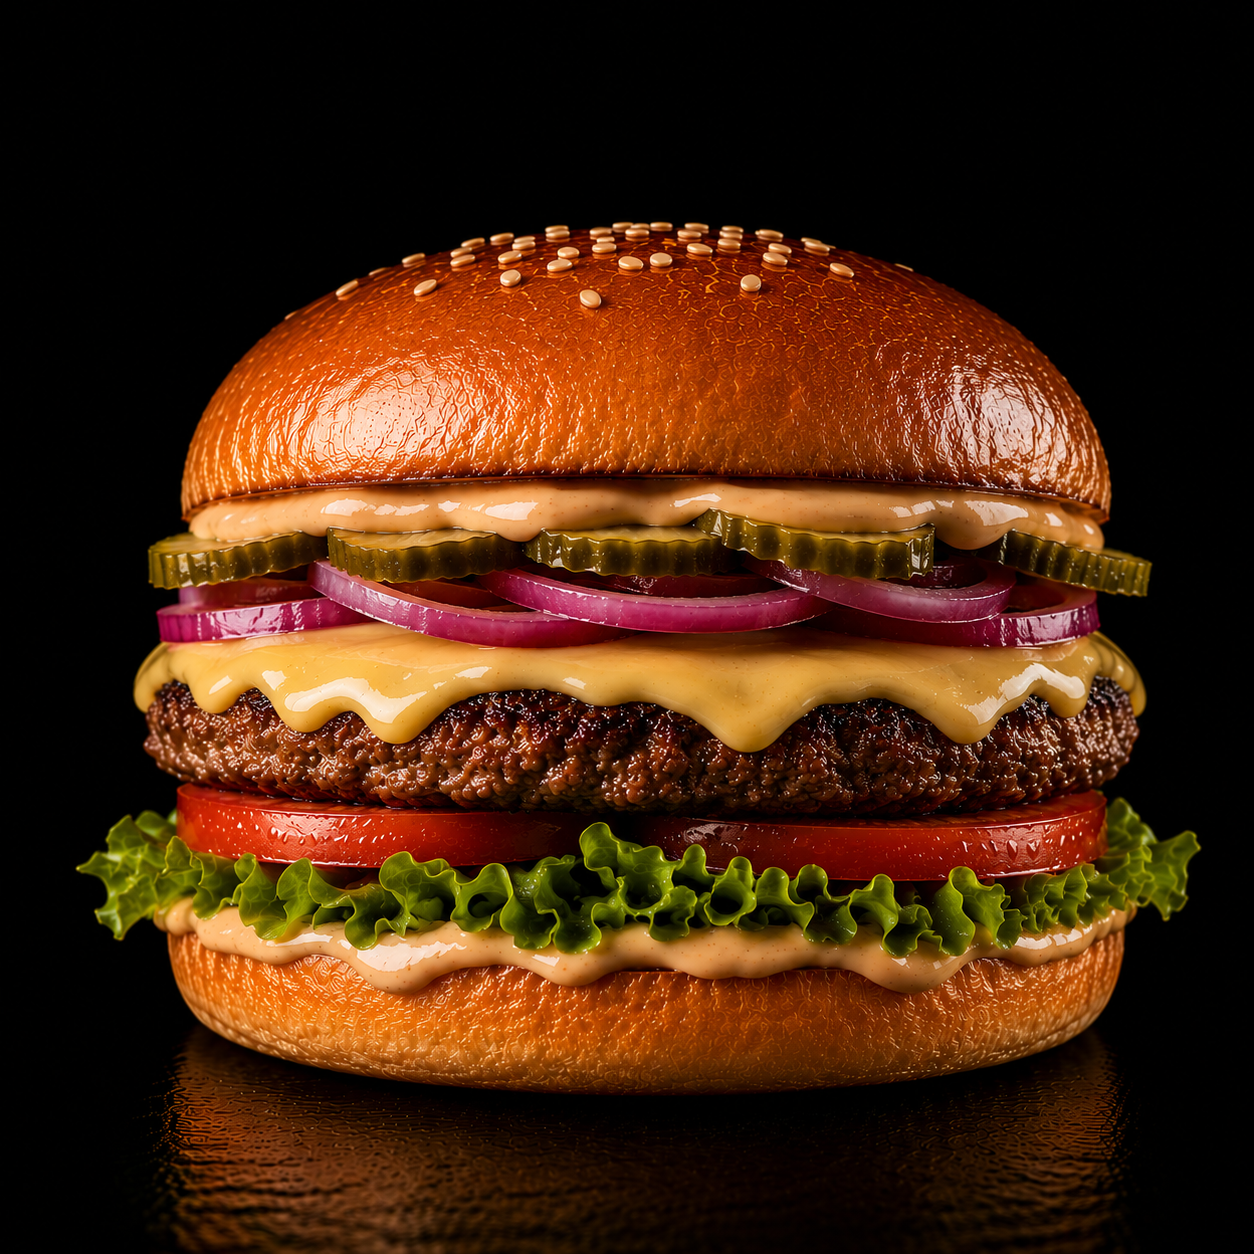
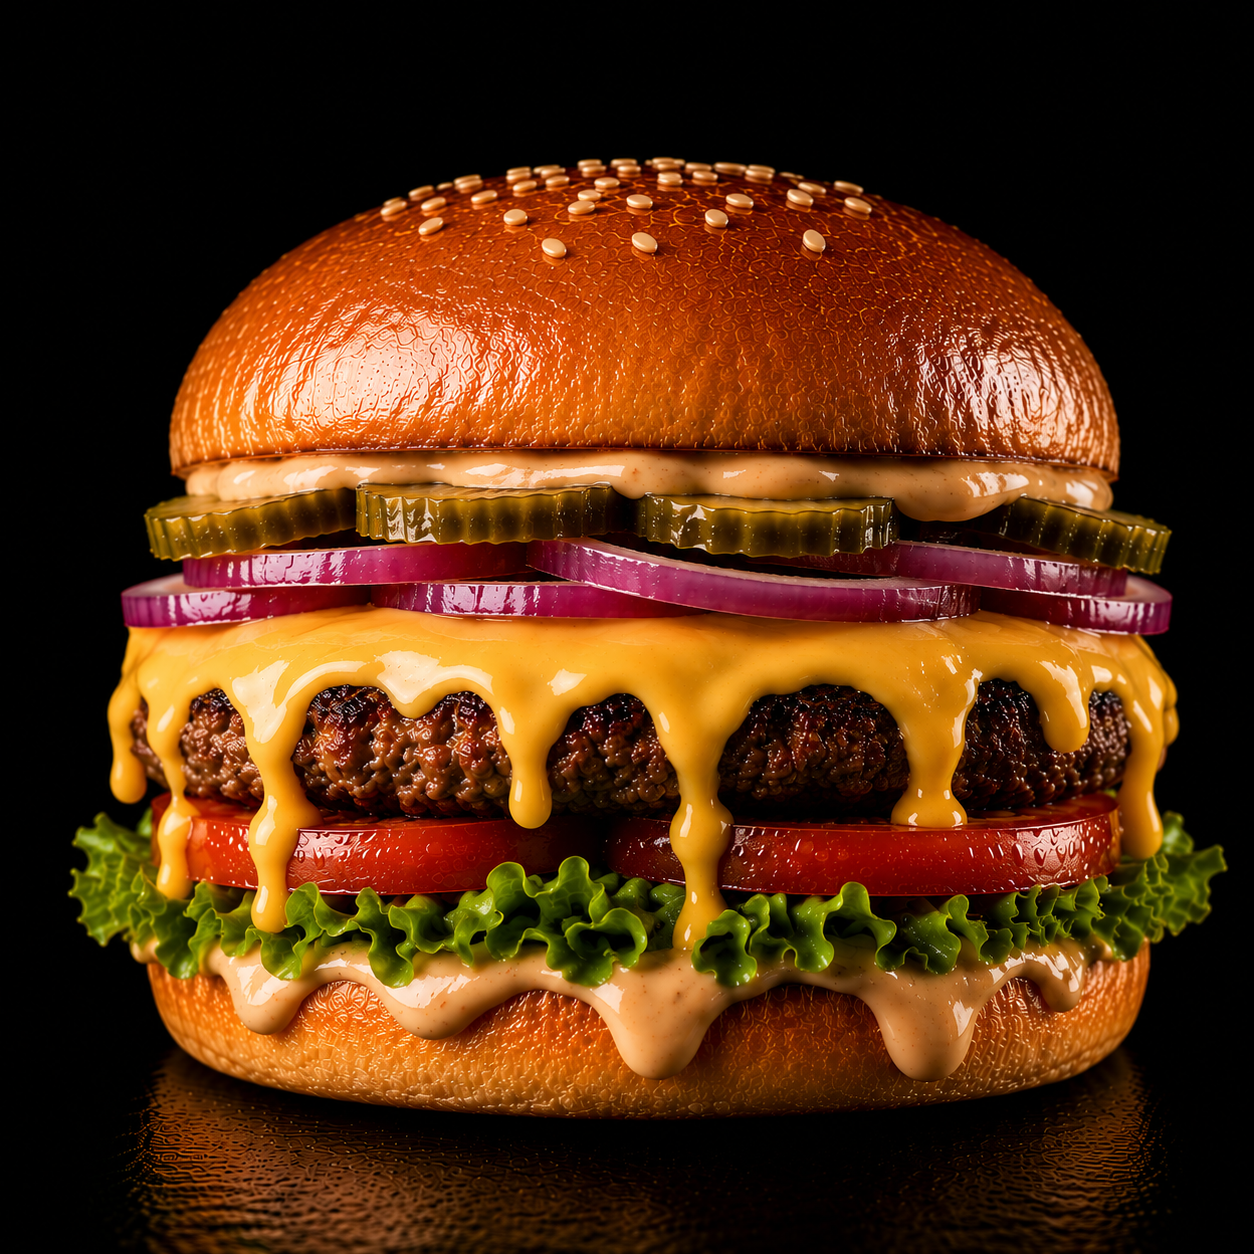
Update burger prices, descriptions, and cheeseburger image.
Set Classic, Cheeseburger, and Fish Burger from tech cards with weights and refreshed cheeseburger artwork.

diff --git a/food/app.js b/food/app.js
@@ -342,8 +342,9 @@ const MENU_ITEMS = [
     id: "classic-burger",
     name: "Классик Бургер",
     description:
-      "Говяжья котлета, салат, томат, лук, маринованные огурцы и фирменный соус.",
-    price: null,
+      "Соус для бургеров, салат, помидор, котлета, маринованные огурцы, маринованный лук и соус для бургеров.",
+    price: 220000,
+    grammage: "300 г",
     category: "burgers",
     badge: "hit",
     image: IMG("burger-classic.png?v=20250618-01"),
@@ -352,11 +353,12 @@ const MENU_ITEMS = [
     id: "cheeseburger",
     name: "Чизбургер",
     description:
-      "Говяжья котлета, сыр чеддер, салат, томат, лук, маринованные огурцы и фирменный соус.",
-    price: null,
+      "Соус для бургеров, салат, помидор, котлета, сырный соус, маринованные огурцы, маринованный лук и соус для бургеров.",
+    price: 230000,
+    grammage: "310 г",
     category: "burgers",
     badge: "hit",
-    image: IMG("CHEESEBURGER.png?v=20250618-01"),
+    image: IMG("CHEESEBURGER.png?v=20250618-02"),
   },
   {
     id: "signature-burger",
@@ -371,8 +373,10 @@ const MENU_ITEMS = [
   {
     id: "fish-burger",
     name: "Фишбургер",
-    description: "Хрустящее рыбное филе, салат, томат, лук и соус тартар.",
-    price: null,
+    description:
+      "Соус тартар, маринованные огурцы, котлета, квашенная капуста, жареный лук и соус тартар.",
+    price: 150000,
+    grammage: "320 г",
     category: "burgers",
     image: IMG("fishburger.png?v=20250618-01"),
   },

diff --git a/food/index.html b/food/index.html
@@ -13,7 +13,7 @@
       href="https://fonts.googleapis.com/css2?family=Montserrat:wght@400;500;600;700&display=swap"
       rel="stylesheet"
     />
-    <link rel="stylesheet" href="/food/styles.css?v=20250608-27" />
+    <link rel="stylesheet" href="/food/styles.css?v=20250608-28" />
   </head>
   <body>
     <header class="site-header" id="site-header">
@@ -138,6 +138,6 @@
       <div class="detail-stage" id="detail-stage"></div>
     </div>
 
-    <script src="/food/app.js?v=20250608-27" defer></script>
+    <script src="/food/app.js?v=20250608-28" defer></script>
   </body>
 </html>
